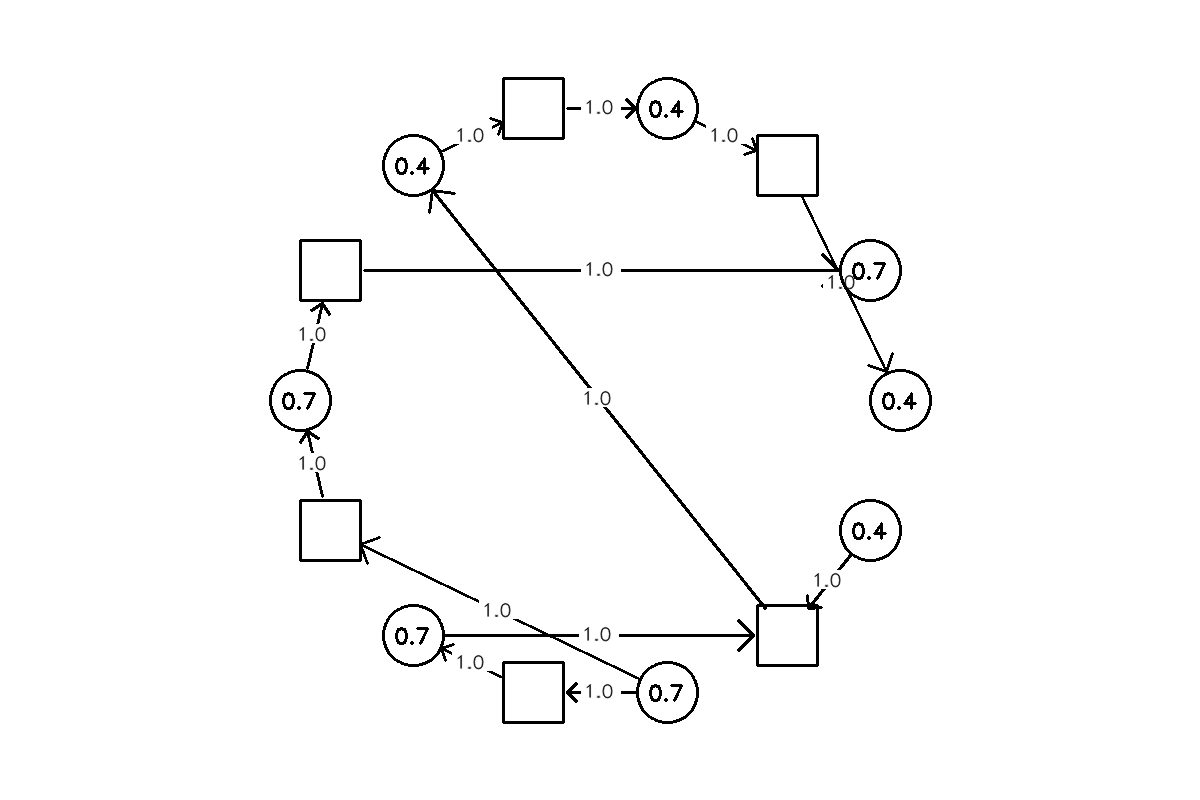
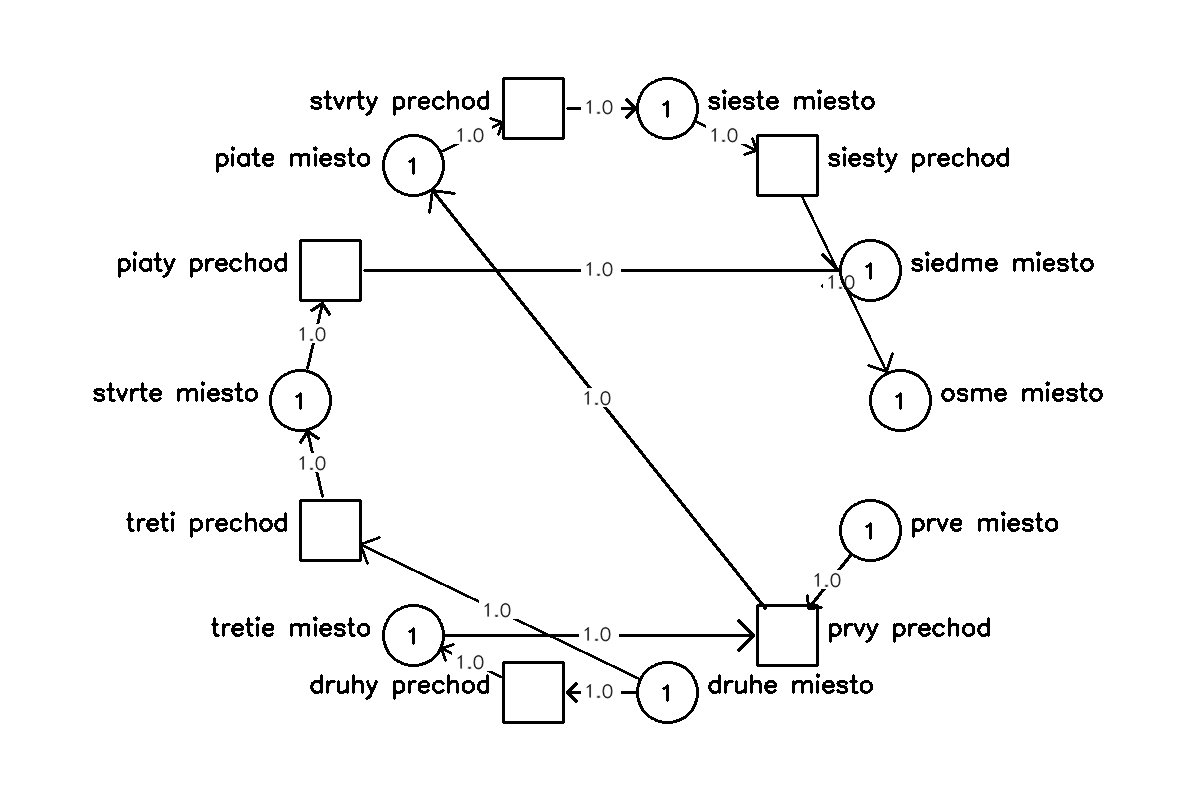
feat: update of the function for generating images

diff --git a/main.py b/main.py
@@ -1,4 +1,3 @@
-import qdarktheme
 from math import sin, cos, pi, atan2, sqrt
 import graphviz as gv
 import bcrypt
@@ -751,12 +750,9 @@ class MainAplication(QtWidgets.QMainWindow):
             for i in range(1, amount+1):
                 x1 = rad * cos(angle*i * pi/180)
                 y1 = rad * sin(angle*i * pi/180)
-                self.dict_final[dict_keys[i-1]
-                                ]["suradnice"] = [round(x + x1), round(y + y1)]
-
-        for i in self.dict_final:
-            print(self.dict_final[i], "\n\n")
-
+                self.dict_final[dict_keys[i-1]]["suradnice"] = {"main_coords": (round(x + x1), round(y + y1))}
+                # print label and coordinates
+                print("XXXXXXXXXXXXXXX", self.dict_final[dict_keys[i-1]]["hodnoty"][0]["label"], self.dict_final[dict_keys[i-1]]["suradnice"]["main_coords"])
         path = './images/' + str(self.image_number) + '.png'
         self.image_dict[self.image_number] = path
         print("path: ", path)
@@ -768,8 +764,18 @@ class MainAplication(QtWidgets.QMainWindow):
         img.fill(255)
 
         for i in self.dict_final:
-            x1 = self.dict_final[i]["suradnice"][0]
-            y1 = self.dict_final[i]["suradnice"][1]
+            x1 = self.dict_final[i]["suradnice"]["main_coords"][0]
+            y1 = self.dict_final[i]["suradnice"]["main_coords"][1]
+            if x1 > 600:
+                pos = "right"
+            # elif x1 <= 670 and x1 >= 530:
+            #     if y1 > 400:
+            #         pos = "bottom"
+            #     else:
+            #         pos = "top"
+            else:
+                pos = "left"
+
             if self.dict_final[i]["typ"] == 'p':
                 text = str(self.dict_final[i]['hodnoty']
                            [self.image_index-1]['tokeny'])
@@ -780,10 +786,22 @@ class MainAplication(QtWidgets.QMainWindow):
                 cv2.putText(img, text, text_origin,
                             cv2.FONT_HERSHEY_SIMPLEX, 0.7, (0, 0, 0), 2)
                 cv2.circle(img, (x1, y1), 30, (0, 0, 0), 2)
+
+                text_size, _ = cv2.getTextSize(str(self.dict_final[i]['hodnoty'][0]['label']), cv2.FONT_HERSHEY_SIMPLEX, 0.8, 2)
+                if pos == "right":
+                    text_pos = (x1 + 40, y1)
+                elif pos == "left":
+                    text_pos = (x1 - 40 - text_size[0], y1)
+                elif pos == "bottom":
+                    text_pos = (x1 - text_size[0] // 2, y1 + 50 + text_size[1] // 2)
+                else:
+                    text_pos = (x1 - text_size[0] // 2, y1 - 50 - text_size[1] // 2)
+                cv2.putText(img, str(self.dict_final[i]['hodnoty'][0]['label']), text_pos,
+                            cv2.FONT_HERSHEY_SIMPLEX, 0.8, (0, 0, 0), 2)
                 if self.dict_final[i]['sipky']:
                     for j in self.dict_final[i]['sipky']:
-                        x2 = self.dict_final[j]["suradnice"][0]
-                        y2 = self.dict_final[j]["suradnice"][1]
+                        x2 = self.dict_final[j]["suradnice"]["main_coords"][0]
+                        y2 = self.dict_final[j]["suradnice"]["main_coords"][1]
                         radius1 = 32
                         radius2 = 34
                         fixed_arrow_length = 5
@@ -811,12 +829,24 @@ class MainAplication(QtWidgets.QMainWindow):
                         cv2.putText(
                             img, text, text_pos, cv2.FONT_HERSHEY_SIMPLEX, 0.6, (0, 0, 0), 1, cv2.LINE_AA)
             else:
-                cv2.rectangle(img, (x1 - 30, y1 - 30),
-                              (x1 + 30, y1 + 30), (0, 0, 0), 2)
+                color = (0, 255, 0) if self.dict_final[i]["hodnoty"][self.image_index - 1]["farba"] else (0, 0, 0)
+                cv2.rectangle(img, (x1 - 30, y1 - 30), (x1 + 30, y1 + 30), color, 2)
+                
+                text_size, _ = cv2.getTextSize(str(self.dict_final[i]['hodnoty'][0]['label']), cv2.FONT_HERSHEY_SIMPLEX, 0.8, 2)
+                if pos == "right":
+                    text_pos = (x1 + 40, y1)
+                elif pos == "left":
+                    text_pos = (x1 - 40 - text_size[0], y1)
+                elif pos == "bottom":
+                    text_pos = (x1 - text_size[0] // 2, y1 + 50 + text_size[1] // 2)
+                else:
+                    text_pos = (x1 - text_size[0] // 2, y1 - 50 - text_size[1] // 2)
+                cv2.putText(img, str(self.dict_final[i]['hodnoty'][0]['label']), text_pos,
+                            cv2.FONT_HERSHEY_SIMPLEX, 0.8, (0, 0, 0), 2)
                 if self.dict_final[i]['sipky']:
                     for j in self.dict_final[i]['sipky']:
-                        x2 = self.dict_final[j]["suradnice"][0]
-                        y2 = self.dict_final[j]["suradnice"][1]
+                        x2 = self.dict_final[j]["suradnice"]["main_coords"][0]
+                        y2 = self.dict_final[j]["suradnice"]["main_coords"][1]
                         radius1 = 34
                         radius2 = 32
                         fixed_arrow_length = 5
